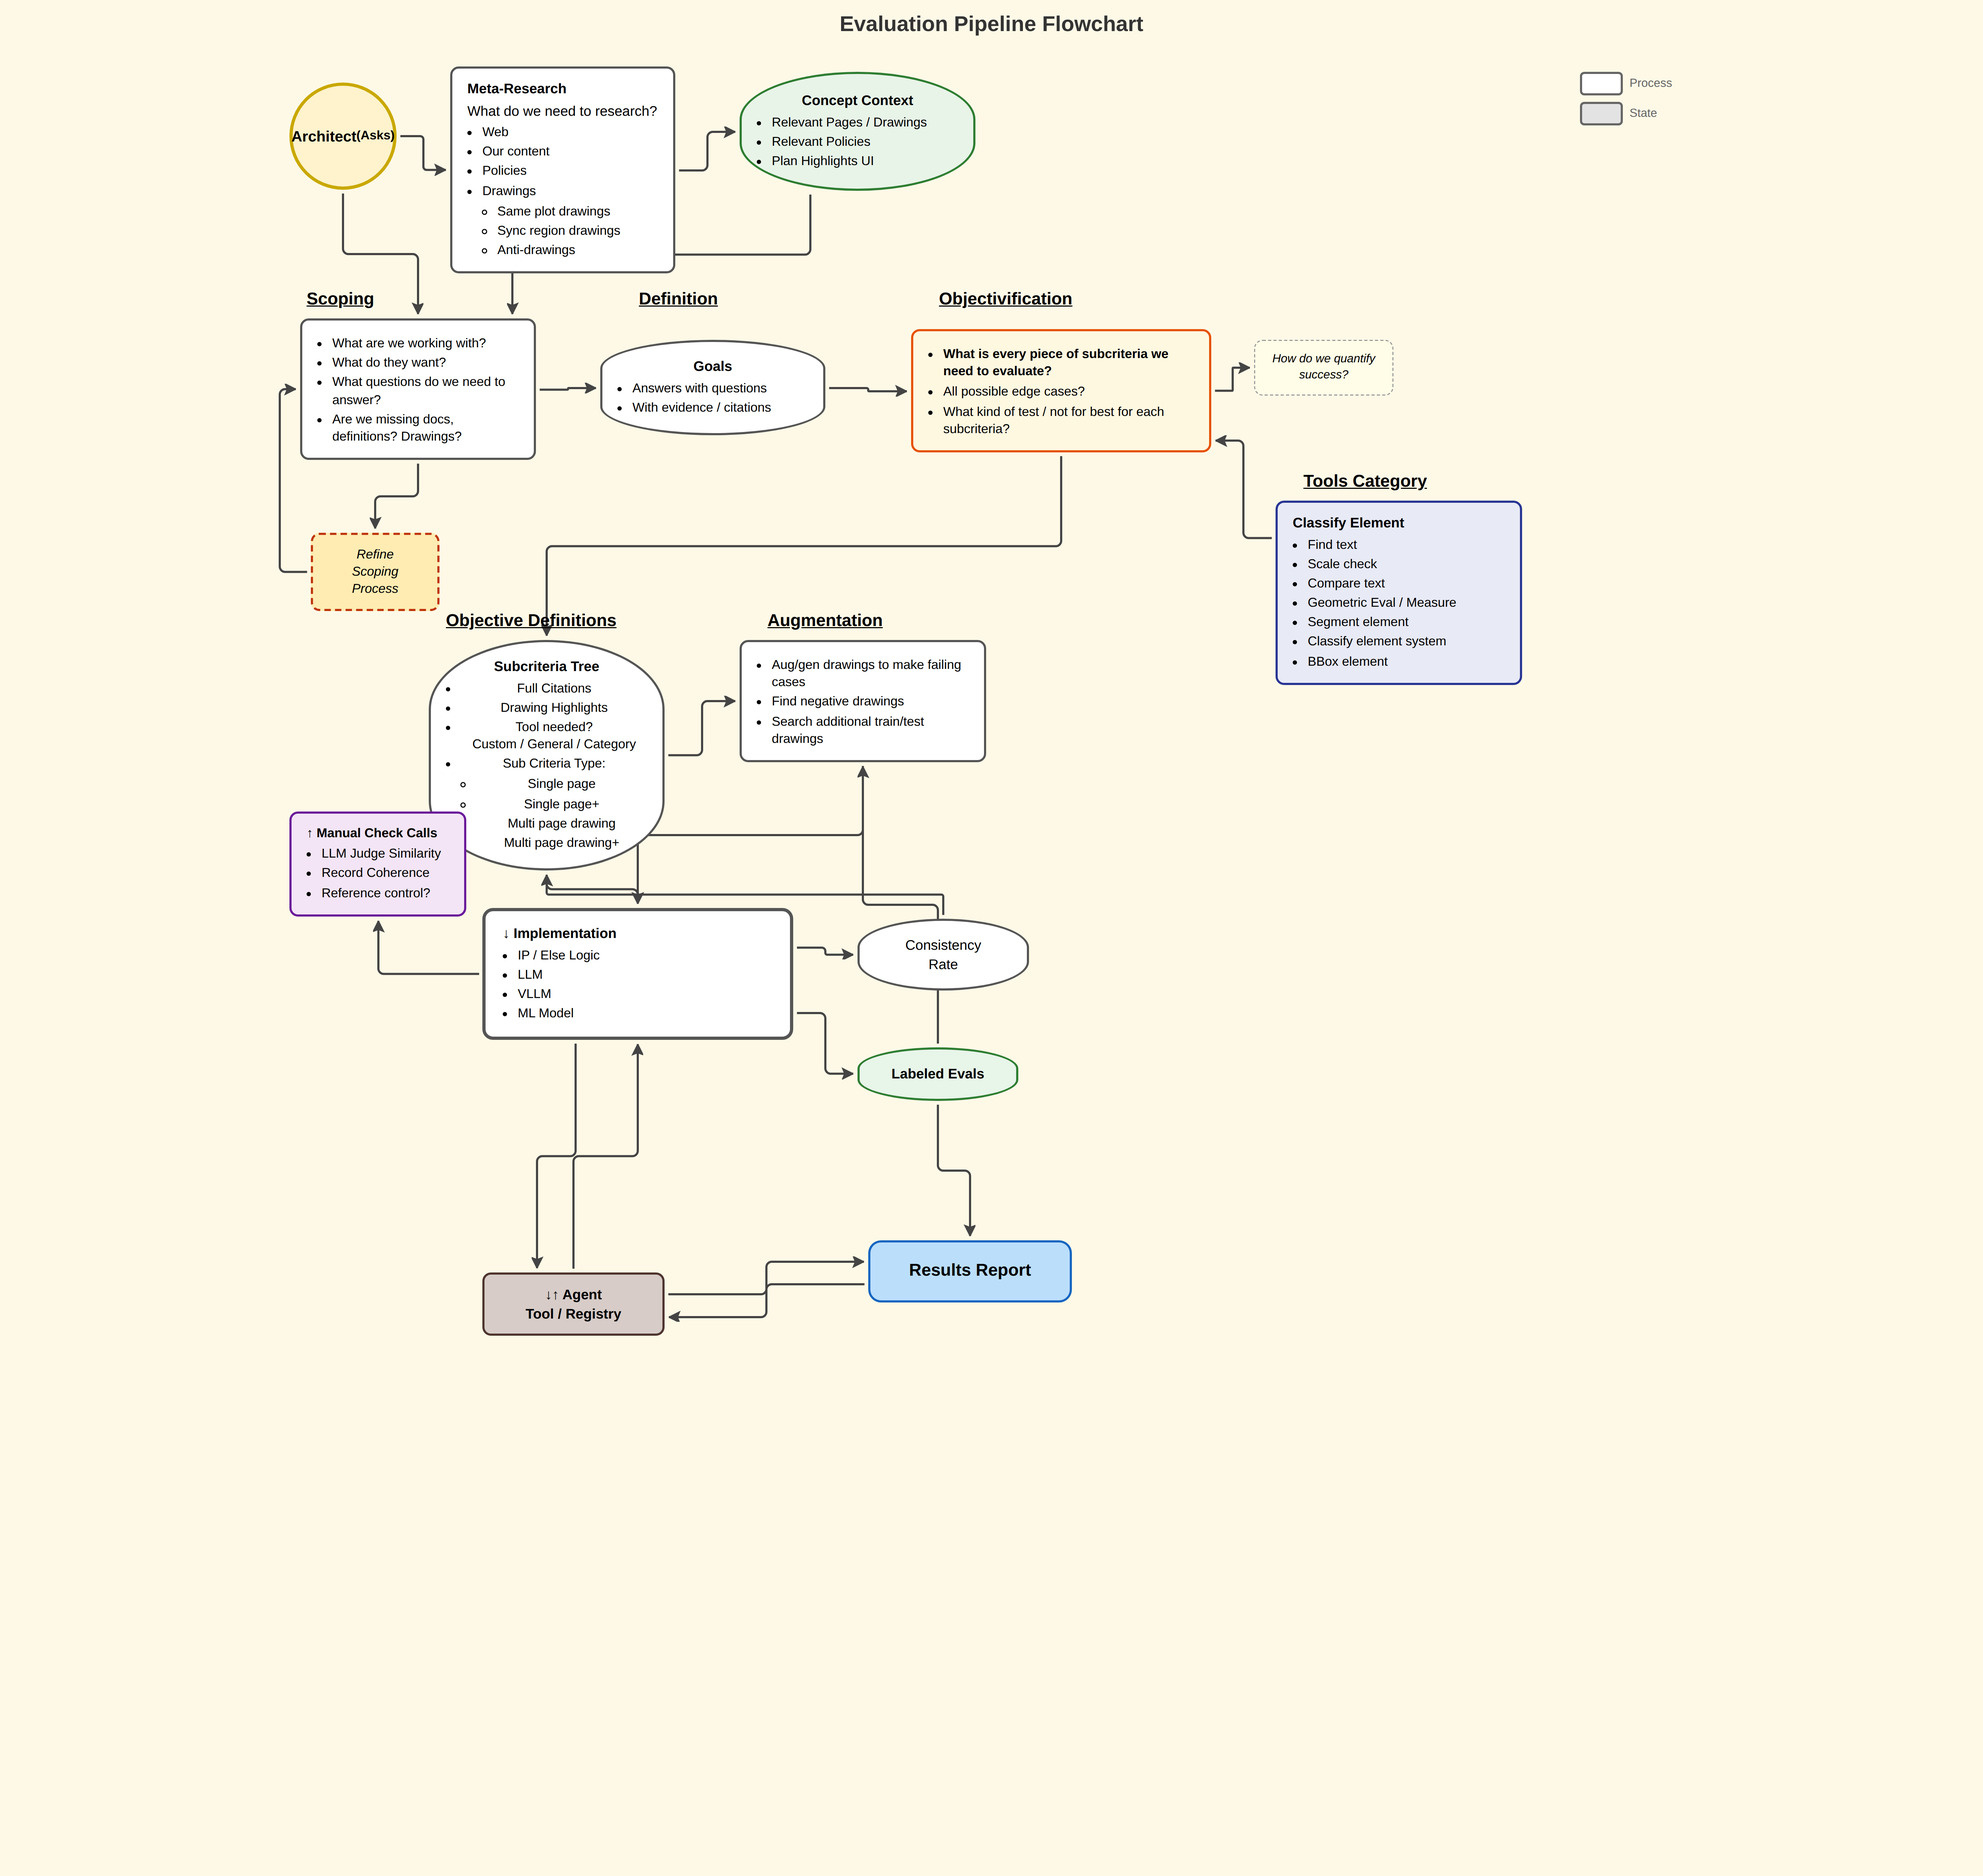
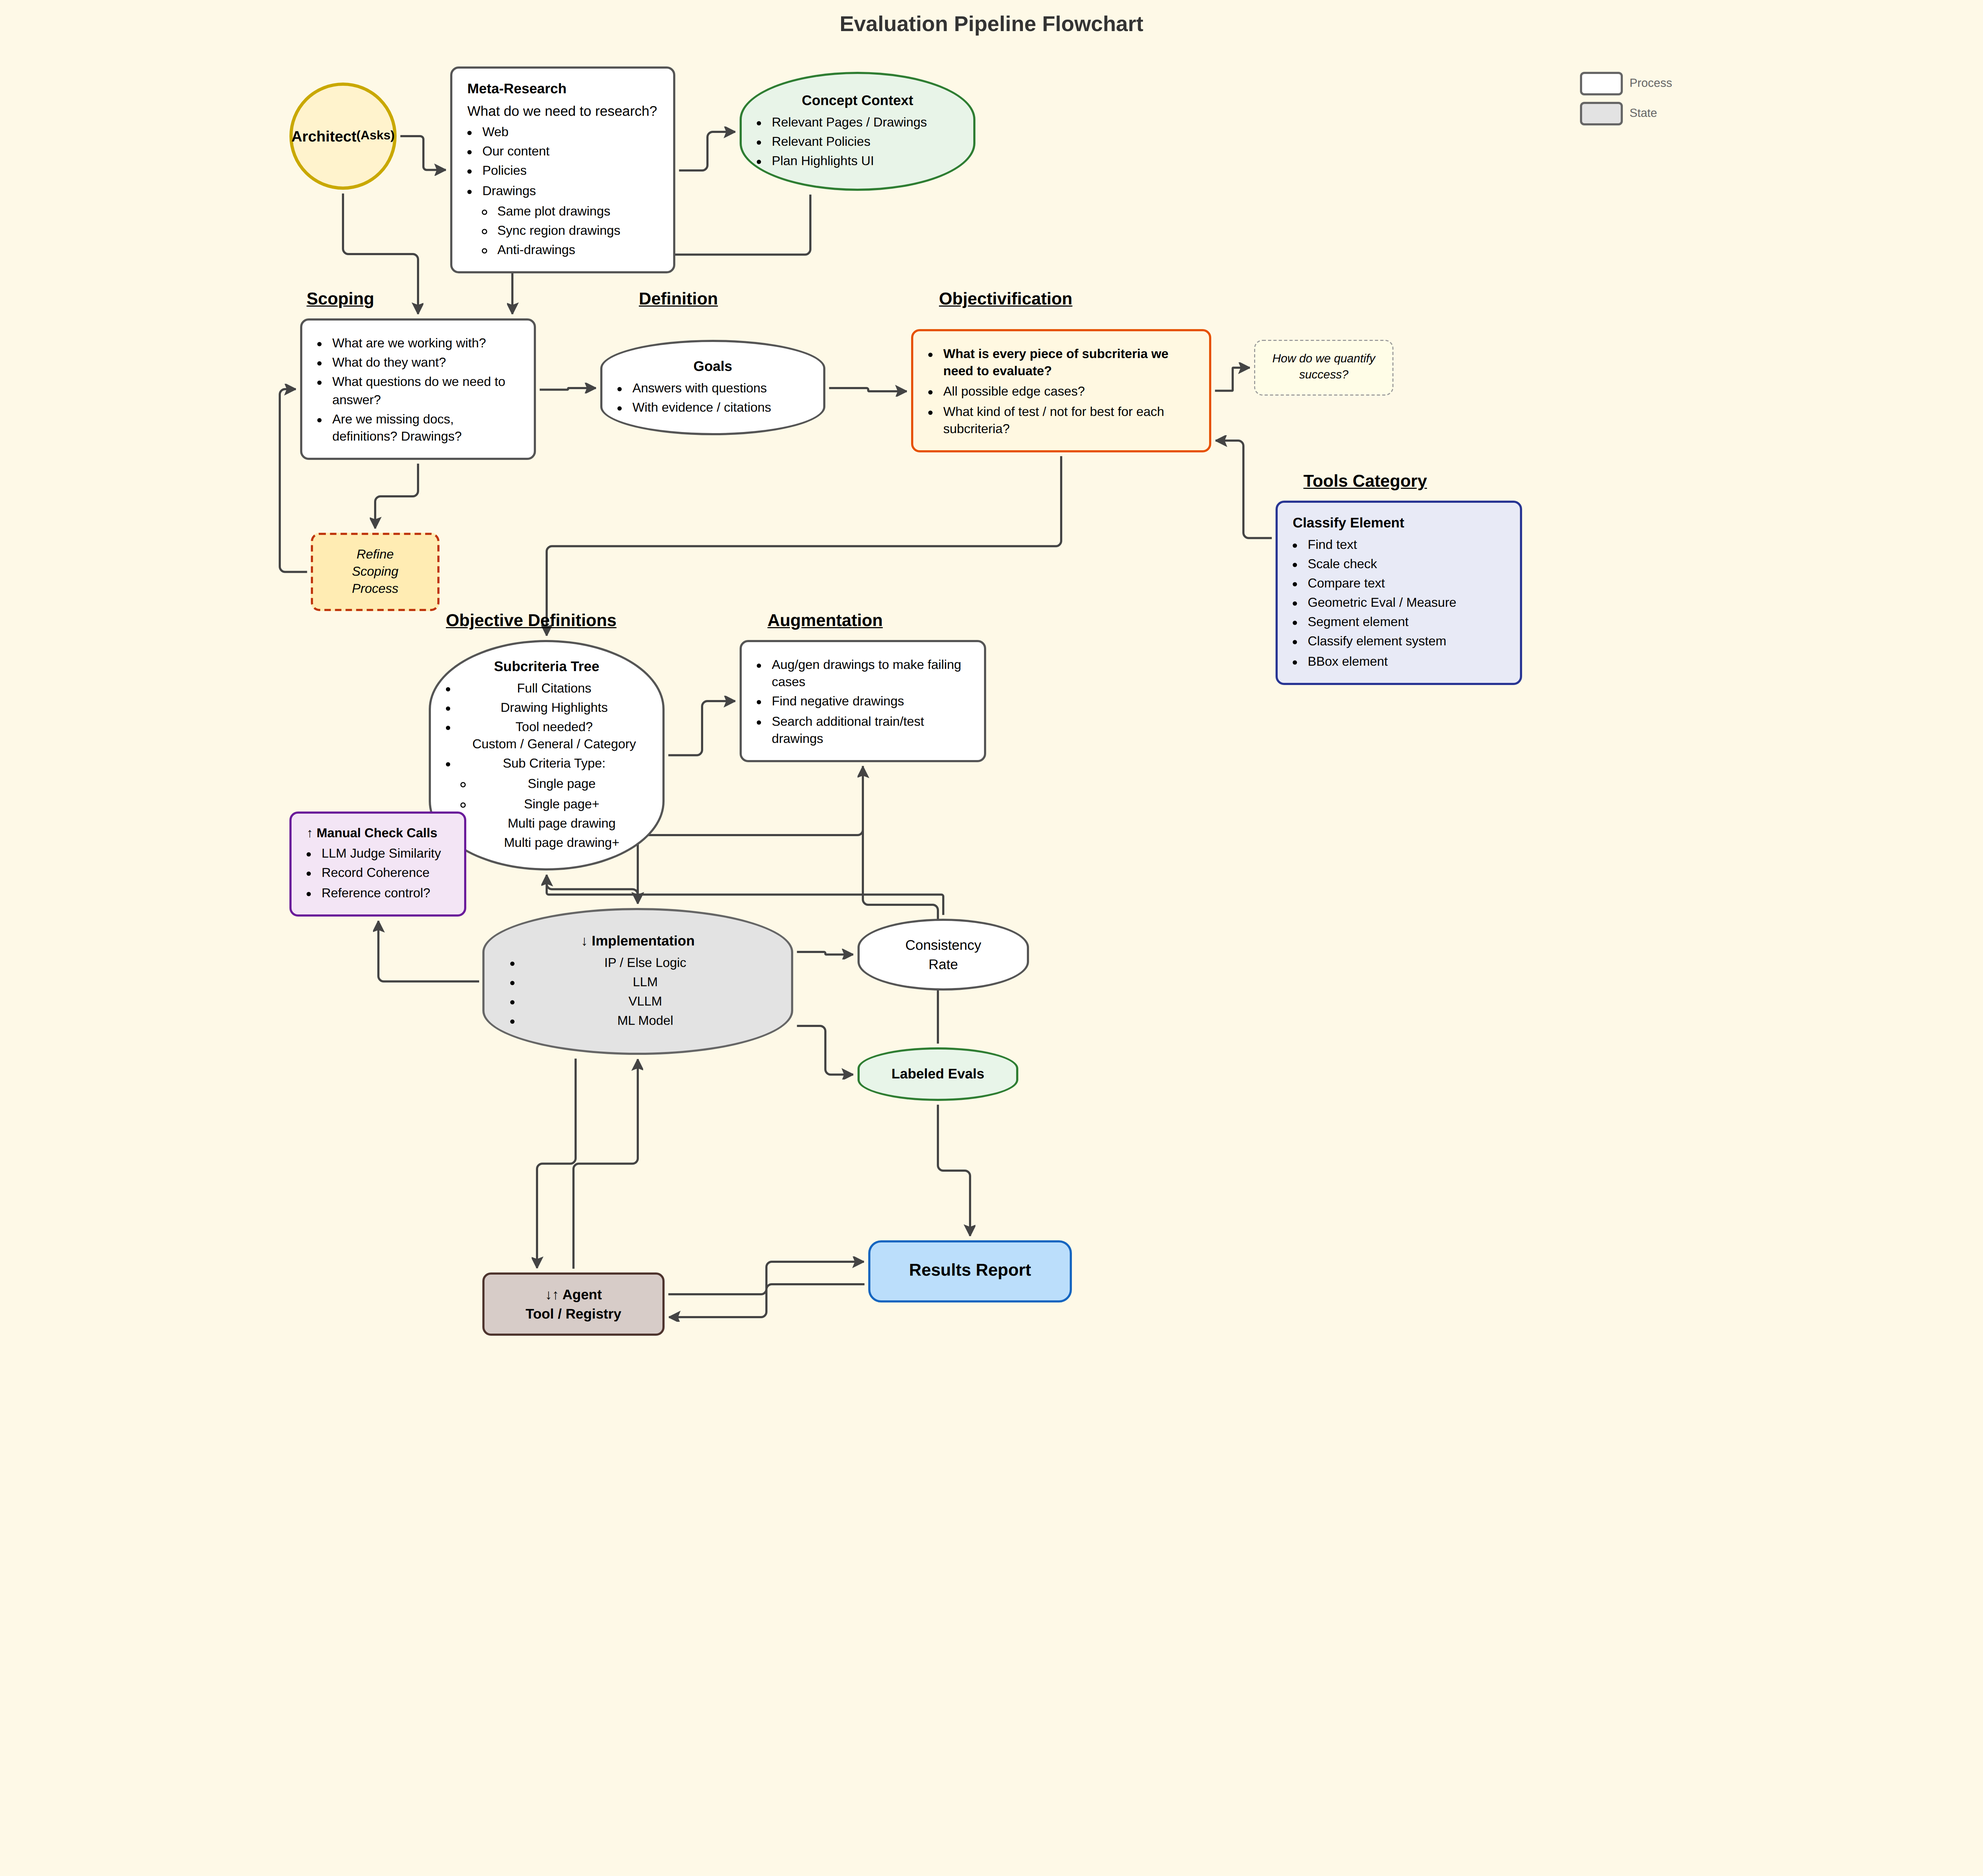
Make Implementation a state (rounded, grey) box
Matches the State legend style with rounded border-radius and grey
background, consistent with Definition and Objective Definitions shapes.

https://claude.ai/code/session_01ACqAQYPFBbKpKmakn9XRgH

Changed region(s): [[0.2182, 0.4686, 0.4052, 0.5623]]

diff --git a/flowchart.html b/flowchart.html
@@ -156,11 +156,12 @@
     }
 
     .impl-box {
-      background: #fff;
-      border: 3px solid #555;
-      border-radius: 10px;
+      background: #e3e3e3;
+      border: 2px solid #666;
+      border-radius: 50% / 30%;
       width: 290px;
-      padding: 12px 16px;
+      padding: 20px 24px;
+      text-align: center;
     }
 
     .consistency-box {
